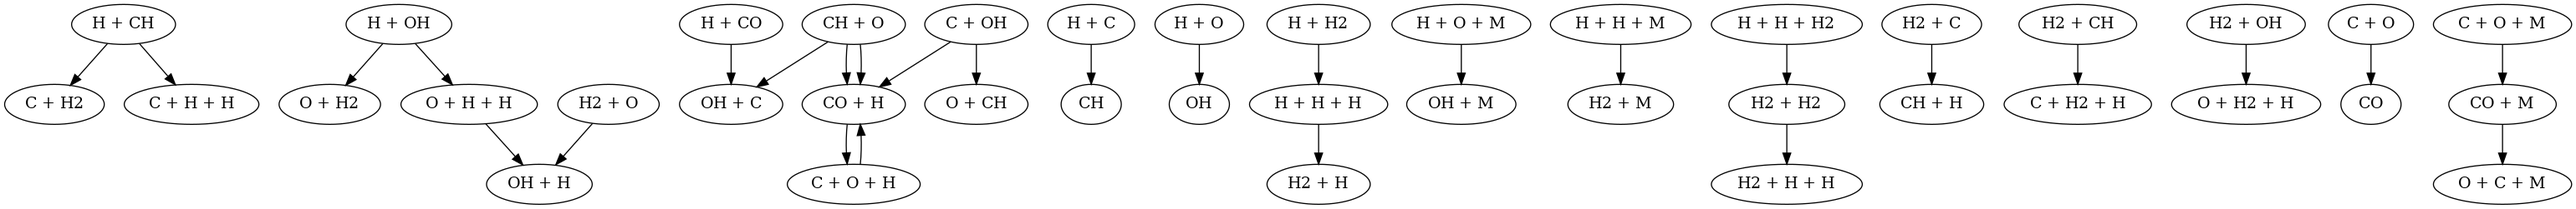
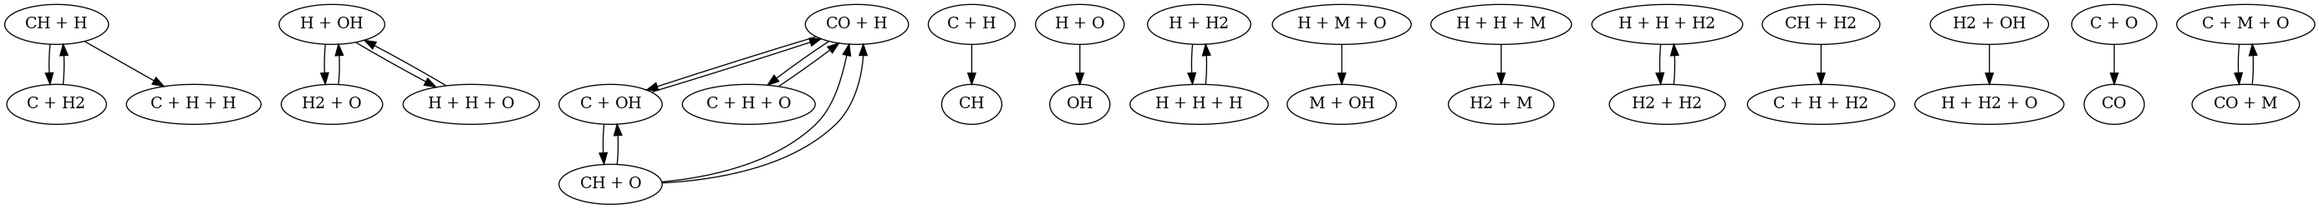
species-complex graph

diff --git a/src/reactions.py b/src/reactions.py
@@ -9,7 +9,10 @@ from itertools import product
 from math import exp  # used in 'eval'
 
 
-def create_complex(lst): return ' + '.join(lst)
+# Order list alphabetically so that complex combinations work out
+# e.g. H + CH == CH + H
+# TODO: Do it properly when creating the set of complexes!
+def create_complex(lst): return ' + '.join(sorted(lst))
 
 
 class Reaction:
@@ -76,6 +79,7 @@ class Network:
     # Create MultiDiGraphs for species and complexes using networkx
     self.species_graph = self.create_species_graph()
     self.complex_graph = self.create_complex_graph()
+    self.species_complex_graph = self.create_species_complex_graph()
 
   def create_species_graph(self, temperature=None) -> nx.MultiDiGraph:
     # Create graph of species
@@ -101,13 +105,30 @@ class Network:
 
     return complex_graph
 
+  def create_species_complex_graph(self, temperature=None) -> nx.DiGraph:
+    # Create the graph relating complexes to their constituent species
+    species_complex_graph = nx.DiGraph()
+    for complex in self.complexes:
+      # Turn 'complex' into a list and check which species are in it
+      split_complex = [c.strip() for c in complex.split("+")]
+      for species in self.species:
+        if species in split_complex:
+          species_complex_graph.add_edge(species, complex)
+
+    return species_complex_graph
+
   def update_species_graph(self, temperature: float):
     # Given a certain temperature, update the species Graph (weights)
     self.species_graph = self.create_species_graph(temperature=temperature)
 
   def update_complex_graph(self, temperature: float):
-    # Given a certain temperature, update the species Graph (weights)
+    # Given a certain temperature, update the complex Graph (weights)
     self.complex_graph = self.create_complex_graph(temperature=temperature)
+
+  def update_species_complex_graph(self, temperature: float):
+    # Given a certain temperature, update the species-complex Graph (weights)
+    self.species_complex_graph = self.create_species_complex_graph(
+        temperature=temperature)
 
 
 # cls method for Network!
@@ -161,6 +182,10 @@ if __name__ == "__main__":
   print(network.species)
   print("Complexes")
   print(network.complexes)
+  print("Rates")
+  for rxn in network.reactions:
+    print(rxn.rate)
 
   to_pydot(network.species_graph).write_png("./species.png")
   to_pydot(network.complex_graph).write_png("./complex.png")
+  to_pydot(network.species_complex_graph).write_png("./species_complex.png")
